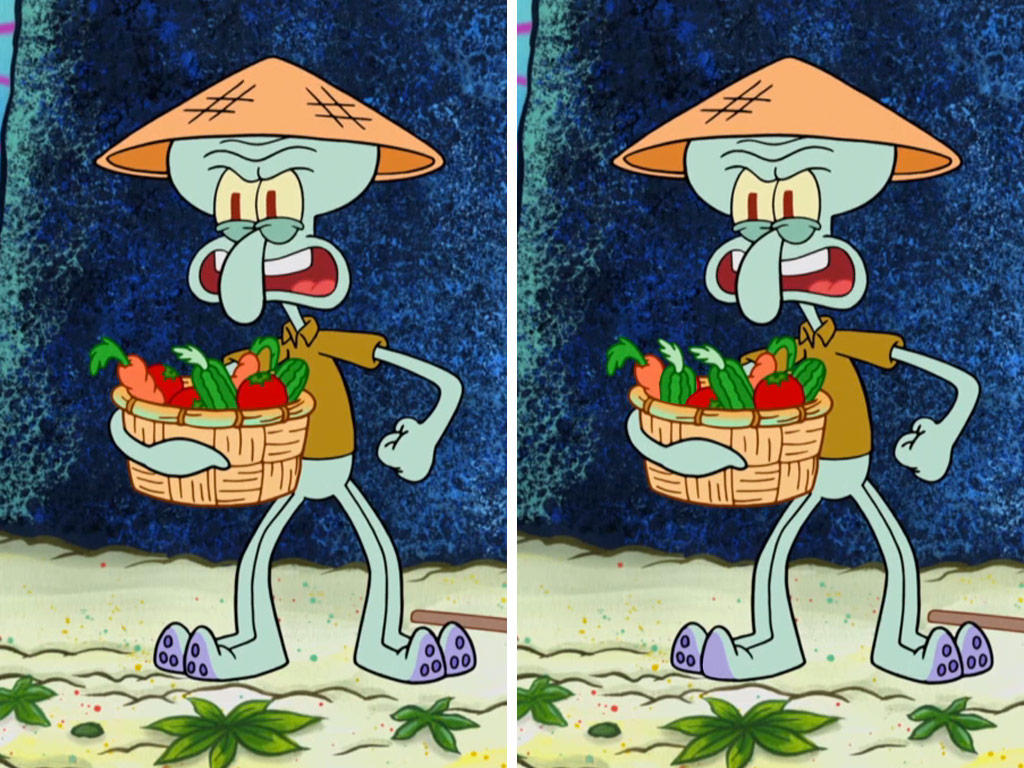
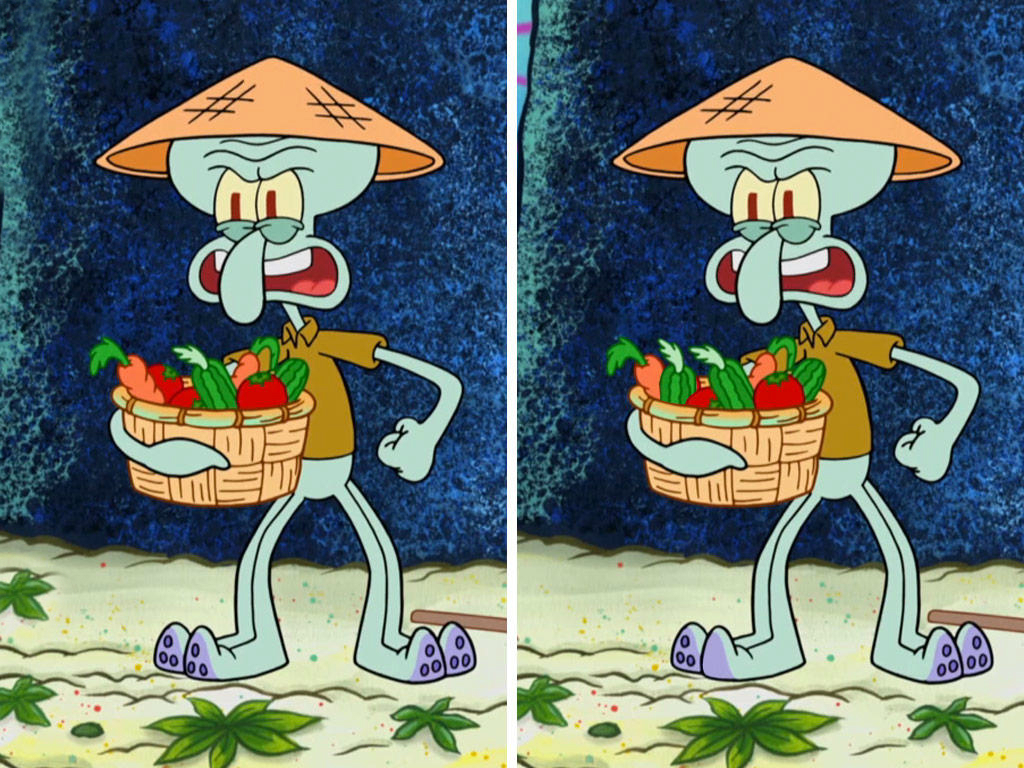
Making progress

Changed region(s): [[0.0, 0.0, 0.0625, 0.3125], [0.0, 0.7188, 0.0625, 0.8125]]

diff --git a/puzzle.js b/puzzle.js
@@ -1,14 +1,15 @@
 var canvas = document.getElementById("canvas");
 var context = canvas.getContext("2d");
-draw(context);
+var puzzleImage = "squidward.jpg";
+draw(context,puzzleImage);
 canvas.addEventListener('click', doSomething);
 
-function draw(context) {
+function draw(context,puzzleImage) {
 	var img = new Image();
 	img.onload = function() {
 		context.drawImage(img, 0, 0, 600, 300);
 	}
-	img.src = "spongebob.jpg";
+	img.src = puzzleImage;
 }
 
 function getMouseXY(e) {
@@ -29,58 +30,61 @@ function getMouseXY(e) {
 	}; // return as an object
 }
 
-var spongebob1 = false;
-var spongebob2 = false;
-var spongebob3 = false;
-var spongebob4 = false;
-var spongebob5 = false;
+var differenceFound = [false,false,false,false,false];
 var toFind = 5;
 var found = 0;
 
 function doSomething(evt) {
 	var pos = getMouseXY(evt);
 	console.log("click: " + pos.x + ", " + pos.y);
-	if (pos.x >= 230 && pos.y >= 140 && pos.x <= 290 && pos.y <= 180 && spongebob1 == false) {
+	if (pos.x >= 230 && pos.y >= 140 && pos.x <= 290 && pos.y <= 180 && differenceFound[0] == false && puzzleImage=="spongebob.jpg") {
 		console.log("click: " + pos.x + ", " + pos.y + "On the plate")
-		spongebob1 = true;
+		differenceFound[0] = true;
 		foundADifference();
         drawCircle(260,158,560,158,25,'white');
 
 	}
-	if (pos.x >= 230 && pos.y >= 70 && pos.x <= 260 && pos.y <= 100 && spongebob2 == false) {
+	if (pos.x >= 230 && pos.y >= 70 && pos.x <= 260 && pos.y <= 100 && differenceFound[1] == false && puzzleImage=="spongebob.jpg") {
 		console.log("click: " + pos.x + ", " + pos.y + "On the ketchup")
-		spongebob2 = true;
+		differenceFound[1] = true;
 		foundADifference();
         drawCircle(245,90,545,90,20,'green');
 
 	}
-    	if (pos.x >= 160 && pos.y >= 120 && pos.x <= 190 && pos.y <= 150 && spongebob3 == false) {
+    	if (pos.x >= 160 && pos.y >= 120 && pos.x <= 190 && pos.y <= 150 && differenceFound[2] == false && puzzleImage=="spongebob.jpg") {
 		console.log("click: " + pos.x + ", " + pos.y + "On the hat")
-		spongebob3 = true;
+		differenceFound[2] = true;
 		foundADifference();
         drawCircle(174,135,474,135,15,'black');
 
 
 	}
-    	if (pos.x >= 260 && pos.y >= 15 && pos.x <= 290 && pos.y <= 45 && spongebob4 == false) {
+    	if (pos.x >= 260 && pos.y >= 15 && pos.x <= 290 && pos.y <= 45 && differenceFound[3] == false && puzzleImage=="spongebob.jpg") {
 		console.log("click: " + pos.x + ", " + pos.y + "On the bubble")
-		spongebob4 = true;
+		differenceFound[3] = true;
 		foundADifference();
         drawCircle(271,24,571,24,20,'blue');
 
 	}
-    	if (pos.x >= 0 && pos.y >= 0 && pos.x <= 30 && pos.y <= 30 && spongebob5 == false) {
+    	if (pos.x >= 0 && pos.y >= 0 && pos.x <= 30 && pos.y <= 30 && differenceFound[4] == false && puzzleImage=="spongebob.jpg") {
 		console.log("click: " + pos.x + ", " + pos.y + "On the window")
-		spongebob5 = true;
+		differenceFound[4] = true;
 		foundADifference();
         drawCircle(20,14,325,14,20,'yellow');
+
+	}
+        if (pos.x >= 0 && pos.y >= 215 && pos.x <= 30 && pos.y <= 245 && differenceFound[0] == false && puzzleImage=="squidward.jpg") {
+		console.log("click: " + pos.x + ", " + pos.y + "On the leaf")
+		differenceFound[0] = true;
+		foundADifference();
+        drawCircle(15,231,320,231,20,'yellow');
 
 	}
     if(toFind==0){
         	var element1 = document.getElementById('toFind');
 
         	element1.textContent = "YOU WIN!!!";
-
+            changePuzzle();
     }
 	var str = "x, y: " + pos.x + ", " + pos.y;
 	displayResult(str);
@@ -115,4 +119,26 @@ function drawCircle(x,y,x2,y2,radius,style) {
       // line color
       context.strokeStyle = style;
       context.stroke();
+}
+function changePuzzle(){
+    if (puzzleImage=="spongebob.jpg"){
+        puzzleImage ="squidward.jpg"
+    }
+    else if(puzzleImage=="squidward.jpg"){
+        puzzleImage="pig.jpg"
+    }
+    else if(puzzleImage=="pig.jpg"){
+        puzzleImage="spongebob.jpg"
+    }
+    draw(context,puzzleImage);
+    toFind=5;
+    found=0;
+	var element1 = document.getElementById('toFind');
+	element1.textContent = toFind;
+	var element2 = document.getElementById('found');
+	element2.textContent = found;
+    for(var i=0;i<differenceFound.length;i++){
+        differenceFound[i]=false;
+    }
+
 }

diff --git a/index.css b/index.css
@@ -119,7 +119,7 @@ h1 {
         width: 100%;
     }
 }
-@media screen and (min-width: 802px) {
+@media screen and (min-width: 803px) {
     body nav ul li #logo {
         padding: 3px 30px 0px 30px;
     }
